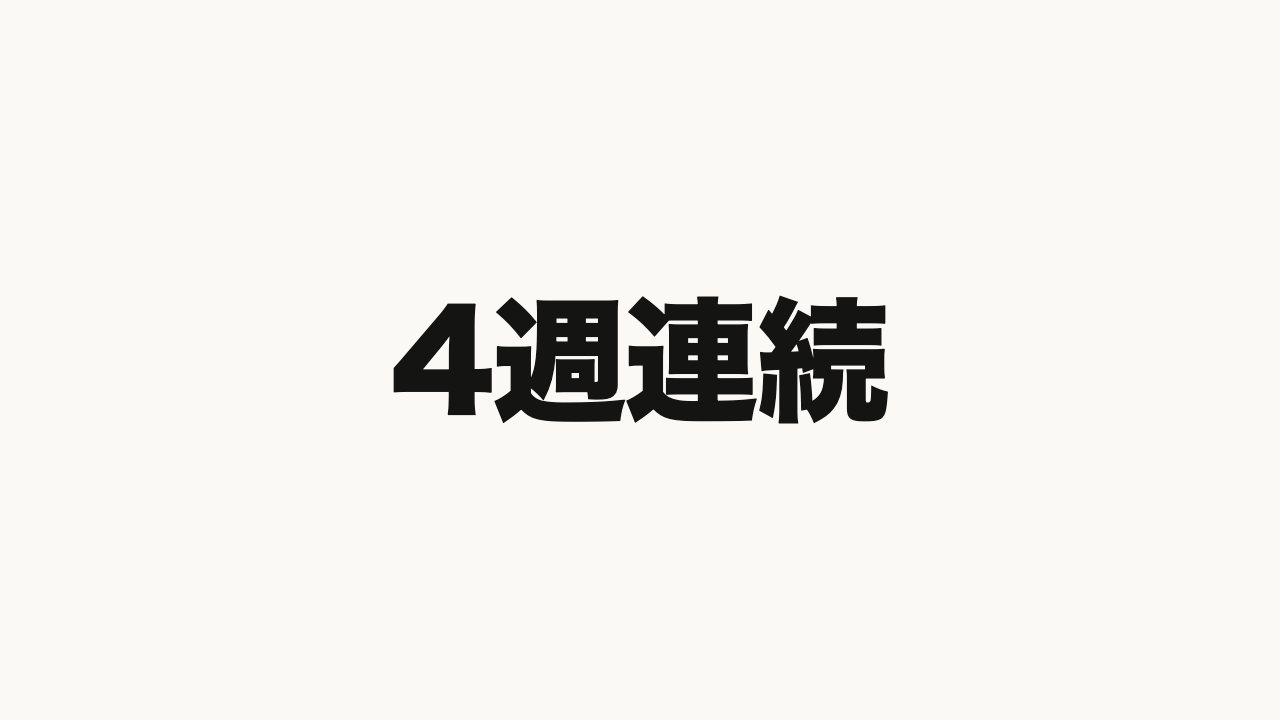
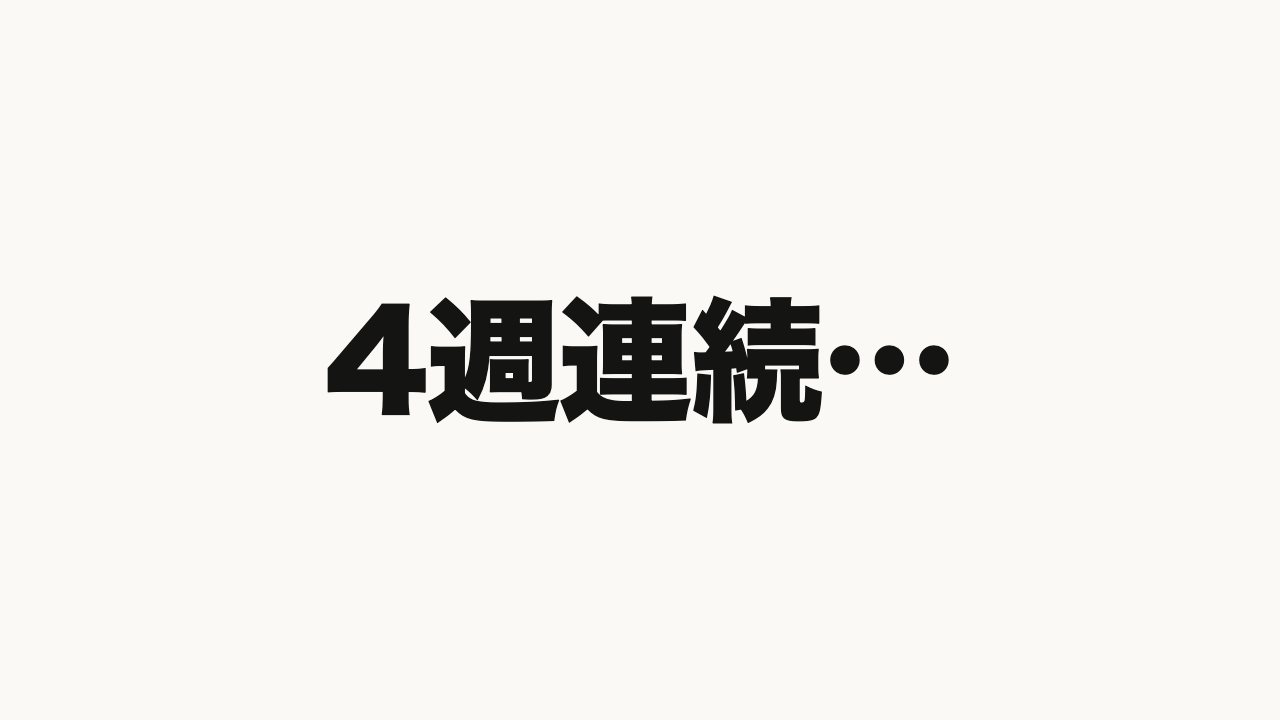
参加者向けスライドを編集内容に合わせて更新する

Changed region(s): [[0.25, 0.3972, 0.75, 0.6111]]

diff --git a/claude-meetup/index.html b/claude-meetup/index.html
@@ -31,7 +31,7 @@
 <div id="toast" role="status" hidden></div>
 <script>
 (function () {
-  const ALL = [{"id": "title", "alt": "LTしたい Codex使いは Claude Codeの世界に 足を踏み入れる"}, {"id": "photoOk", "alt": "撮影・SNS投稿 大歓迎"}, {"id": "sameIdea", "alt": "鮫さんの 登壇スタイルを 真似します"}, {"id": "audienceQr", "alt": "登壇資料を 手元のスマホでも 見られます！ X投稿も可能！"}, {"id": "profile", "alt": "あぶち"}, {"id": "fourWeeks", "alt": "4週連続"}, {"id": "week1", "alt": "1週目： XRコンテンツを作ってみる会"}, {"id": "week1b", "alt": "1週目： XRコンテンツを作ってみる会"}, {"id": "pagemvv8d4pn", "alt": "2週目： さくらじまハウス2026 運営/登壇"}, {"id": "week2b", "alt": "3週目： CUG BIM/CIM勉強会 登壇"}, {"id": "week2", "alt": "3週目： CUG BIM/CIM勉強会 登壇CUG BIM/CIM勉強会 登壇"}, {"id": "week3b", "alt": "3週目： CUG BIM/CIM勉強会 登壇TSUKAFES ブース出展"}, {"id": "week3", "alt": "3週目： CUG BIM/CIM勉強会 登壇TSUKAFES ブース出展"}, {"id": "week4", "alt": "4週目： Kagoshima | Claude Meetup"}, {"id": "finally", "alt": "やっと 終わった"}, {"id": "karakuni", "alt": "明日は霧島登山"}, {"id": "tokyo", "alt": "明後日は東京 Unreal Fest"}, {"id": "busy", "alt": "忙しすぎィ！"}, {"id": "stillLt", "alt": "それでも LTに出たい"}, {"id": "pagemvv6107c", "alt": "なぜなのか！？"}, {"id": "komyusho", "alt": "コミュ障だから！"}, {"id": "mingleHard", "alt": "交流タイムが つらい"}, {"id": "ltMeishi", "alt": "LTは 名刺代わり"}, {"id": "getTalked", "alt": "話しかけて もらえる"}, {"id": "komyushoLt", "alt": "コミュ障ほど LTしよう！！"}, {"id": "soThen", "alt": "というわけで"}, {"id": "meishiIppatsu", "alt": "名刺代わりのLTを ここで一発"}, {"id": "codexAll", "alt": "仕事も 趣味も Codex"}, {"id": "pagemvv93edm", "alt": "そんな私が"}, {"id": "claudeStart", "alt": "Claude Codeを 触ってみた"}, {"id": "atarimaeEarly", "alt": "「当たり前じゃん」と 思った人"}, {"id": "howMade", "alt": "この資料は"}, {"id": "voiceMemo", "alt": "日々の思いつきを Codexにメモ"}, {"id": "handoff", "alt": "Codexが 引き継ぎ書に"}, {"id": "claudeSlides", "alt": "Claudeが スライドに"}, {"id": "spell", "alt": "SpellCastXR"}, {"id": "spellBoard", "alt": "タスクを ボードに"}, {"id": "spellPick", "alt": "1つずつ 拾わせる"}, {"id": "spellSmall", "alt": "人間サイズの タスク"}, {"id": "spellCheck", "alt": "動作確認が 多すぎる"}, {"id": "spell2mo", "alt": "AIを使って 2ヶ月"}, {"id": "tsukafes", "alt": "TSUKAFESで 展示"}, {"id": "day1", "alt": "1日目"}, {"id": "flop", "alt": "思ったより 盛り上がらない"}, {"id": "day2", "alt": "2日目は"}, {"id": "tatsuAgain", "alt": "タツノオトシゴXR"}, {"id": "tatsuKv", "alt": ""}, {"id": "tatsu", "alt": "2024年 辰年"}, {"id": "tatsu24h", "alt": "大晦日から元旦 24時間展示"}, {"id": "tatsuHand", "alt": "手作業で 1ヶ月"}, {"id": "hot", "alt": "盛り上がった"}, {"id": "grow", "alt": "もっと 育てたい"}, {"id": "nextDay", "alt": "展示が 終わった翌日"}, {"id": "standalone", "alt": "スタンドアロンに したい"}, {"id": "ueWater", "alt": "UEだと 水が描けない"}, {"id": "toUnity", "alt": "Codexと相談して Unityへ"}, {"id": "goal", "alt": "ゴールだけ 伝える"}, {"id": "hours13", "alt": "約13時間"}, {"id": "check5", "alt": "動作確認は 5回くらい"}, {"id": "easy", "alt": "あっさり できた"}, {"id": "ai100", "alt": "コードは 100% AI製"}, {"id": "handcodeOver", "alt": "手でコードを書く 時代は 終わった"}, {"id": "noHumanSteps", "alt": "人の手順を なぞらなくていい"}, {"id": "noWall", "alt": "作ることは もう壁じゃない"}, {"id": "humanRole", "alt": "じゃあ 人は何をする？"}, {"id": "ideaFirst", "alt": "最初のアイデアが 肝心"}, {"id": "notCan", "alt": "何ができるか より"}, {"id": "whatMake", "alt": "何を 作りたいか"}, {"id": "creator", "alt": "どんな作品を 作るか"}, {"id": "artist", "alt": "全人類 アーティスト？"}, {"id": "tokyoShop", "alt": "東京なら 家電量販店で 体験できる"}, {"id": "kagoNone", "alt": "鹿児島には 体験できる場が ない"}, {"id": "fewMeet", "alt": "出会う きっかけが 少ない"}, {"id": "fewLearn", "alt": "学ぶ機会も 少ない"}, {"id": "soCommunity", "alt": "だから コミュニティ"}, {"id": "event", "alt": "体験会"}, {"id": "exhibit", "alt": "展示"}, {"id": "knowXr", "alt": "XRを 知ってもらう"}, {"id": "study", "alt": "勉強会で 学ぶ"}, {"id": "make", "alt": "作る"}, {"id": "show", "alt": "作ったものを 展示する"}, {"id": "newPeople", "alt": "また誰かが 体験する"}, {"id": "loop", "alt": "体験と学びの ループ"}, {"id": "loopKago", "alt": "このループを 鹿児島に"}, {"id": "xrm", "alt": "XR Meetup Kagoshima"}, {"id": "okQ", "alt": "Claude初心者でも 登壇して 大丈夫？"}, {"id": "ok", "alt": "触り始めでも 話していい"}, {"id": "atarimae", "alt": "「当たり前じゃん」と 思った人"}, {"id": "canTalk", "alt": "もう 登壇できます"}, {"id": "yourTurn", "alt": "次は あなたの番"}, {"id": "thanks", "alt": "ありがとう ございました"}];
+  const ALL = [{"id": "title", "alt": "LTしたい Codex使いは Claude Codeの世界に 足を踏み入れる"}, {"id": "photoOk", "alt": "撮影・SNS投稿 大歓迎"}, {"id": "sameIdea", "alt": "鮫さんの 登壇スタイルを 真似します"}, {"id": "audienceQr", "alt": "登壇資料を 手元のスマホでも 見られます！ X投稿も可能！"}, {"id": "profile", "alt": "あぶち"}, {"id": "fourWeeks", "alt": "4週連続…"}, {"id": "week1", "alt": "1週目： XRコンテンツを作ってみる会"}, {"id": "week1b", "alt": "1週目： XRコンテンツを作ってみる会"}, {"id": "pagemvv8d4pn", "alt": "2週目： さくらじまハウス2026 運営/登壇"}, {"id": "week2b", "alt": "3週目： CUG BIM/CIM勉強会 登壇"}, {"id": "week2", "alt": "3週目： CUG BIM/CIM勉強会 登壇CUG BIM/CIM勉強会 登壇"}, {"id": "week3b", "alt": "3週目： CUG BIM/CIM勉強会 登壇TSUKAFES ブース出展"}, {"id": "week3", "alt": "3週目： CUG BIM/CIM勉強会 登壇TSUKAFES ブース出展"}, {"id": "week4", "alt": "4週目： Kagoshima | Claude Meetup"}, {"id": "finally", "alt": "やっと 終わった"}, {"id": "karakuni", "alt": "明日は霧島登山"}, {"id": "tokyo", "alt": "明後日は東京 Unreal Fest"}, {"id": "busy", "alt": "忙しすぎィ！"}, {"id": "stillLt", "alt": "それでも LTに出たい"}, {"id": "pagemvv6107c", "alt": "なぜなのか！？"}, {"id": "komyusho", "alt": "コミュ障だから！"}, {"id": "mingleHard", "alt": "交流タイムが つらい"}, {"id": "ltMeishi", "alt": "LTは 名刺代わり"}, {"id": "getTalked", "alt": "話しかけて もらえる"}, {"id": "komyushoLt", "alt": "コミュ障ほど LTしよう！！"}, {"id": "soThen", "alt": "というわけで"}, {"id": "meishiIppatsu", "alt": "名刺代わりのLTを ここで一発"}, {"id": "codexAll", "alt": "仕事も 趣味も Codex"}, {"id": "pagemvv93edm", "alt": "そんな私が"}, {"id": "claudeStart", "alt": "Claude Codeを 触ってみた"}, {"id": "atarimaeEarly", "alt": "「当たり前じゃん」と 思った人"}, {"id": "howMade", "alt": "この資料は"}, {"id": "voiceMemo", "alt": "日々の思いつきを Codexにメモ"}, {"id": "handoff", "alt": "Codexが 引き継ぎ書に"}, {"id": "claudeSlides", "alt": "Claudeが スライドに"}, {"id": "spell", "alt": "SpellCastXR"}, {"id": "spellBoard", "alt": "タスクを ボードに"}, {"id": "spellPick", "alt": "1つずつ 拾わせる"}, {"id": "spellSmall", "alt": "人間サイズの タスク"}, {"id": "spellCheck", "alt": "動作確認が 多すぎる"}, {"id": "spell2mo", "alt": "AIを使って 2ヶ月"}, {"id": "tsukafes", "alt": "TSUKAFESで 展示"}, {"id": "day1", "alt": "1日目"}, {"id": "flop", "alt": "思ったより 盛り上がらない"}, {"id": "day2", "alt": "2日目は"}, {"id": "tatsuAgain", "alt": "タツノオトシゴXR"}, {"id": "tatsuKv", "alt": ""}, {"id": "tatsu", "alt": "2024年 辰年"}, {"id": "tatsu24h", "alt": "大晦日から元旦 24時間展示"}, {"id": "tatsuHand", "alt": "手作業で 1ヶ月"}, {"id": "hot", "alt": "盛り上がった"}, {"id": "grow", "alt": "もっと 育てたい"}, {"id": "nextDay", "alt": "展示が 終わった翌日"}, {"id": "standalone", "alt": "スタンドアロンに したい"}, {"id": "ueWater", "alt": "UEだと 水が描けない"}, {"id": "toUnity", "alt": "Codexと相談して Unityへ"}, {"id": "goal", "alt": "ゴールだけ 伝える"}, {"id": "hours13", "alt": "約13時間"}, {"id": "check5", "alt": "動作確認は 5回くらい"}, {"id": "easy", "alt": "あっさり できた"}, {"id": "ai100", "alt": "コードは 100% AI製"}, {"id": "handcodeOver", "alt": "手でコードを書く 時代は 終わった"}, {"id": "noHumanSteps", "alt": "人の手順を なぞらなくていい"}, {"id": "noWall", "alt": "作ることは もう壁じゃない"}, {"id": "humanRole", "alt": "じゃあ 人は何をする？"}, {"id": "ideaFirst", "alt": "最初のアイデアが 肝心"}, {"id": "notCan", "alt": "何ができるか より"}, {"id": "whatMake", "alt": "何を 作りたいか"}, {"id": "creator", "alt": "どんな作品を 作るか"}, {"id": "artist", "alt": "全人類 アーティスト？"}, {"id": "tokyoShop", "alt": "東京なら 家電量販店で 体験できる"}, {"id": "kagoNone", "alt": "鹿児島には 体験できる場が ない"}, {"id": "fewMeet", "alt": "出会う きっかけが 少ない"}, {"id": "fewLearn", "alt": "学ぶ機会も 少ない"}, {"id": "soCommunity", "alt": "だから コミュニティ"}, {"id": "event", "alt": "体験会"}, {"id": "exhibit", "alt": "展示"}, {"id": "knowXr", "alt": "XRを 知ってもらう"}, {"id": "study", "alt": "勉強会で 学ぶ"}, {"id": "make", "alt": "作る"}, {"id": "show", "alt": "作ったものを 展示する"}, {"id": "newPeople", "alt": "また誰かが 体験する"}, {"id": "loop", "alt": "体験と学びの ループ"}, {"id": "loopKago", "alt": "このループを 鹿児島に"}, {"id": "xrm", "alt": "XR Meetup Kagoshima"}, {"id": "okQ", "alt": "Claude初心者でも 登壇して 大丈夫？"}, {"id": "ok", "alt": "触り始めでも 話していい"}, {"id": "atarimae", "alt": "「当たり前じゃん」と 思った人"}, {"id": "canTalk", "alt": "もう 登壇できます"}, {"id": "yourTurn", "alt": "次は あなたの番"}, {"id": "thanks", "alt": "ありがとう ございました"}];
   const TOPIC = "abchee-lt-4d766b75dfda80be", BASE = "https://abricheese.github.io/talks/claude-meetup/", TITLE = "LTしたいCodex使いはClaude Codeの世界に足を踏み入れる", HASHTAG = "#ClaudeCommunityKagoshima";
   const slides = ALL.filter(s => !s.hidden);
   const $ = id => document.getElementById(id);

diff --git a/claude-meetup/s/fourWeeks.html b/claude-meetup/s/fourWeeks.html
@@ -1,7 +1,7 @@
 <!doctype html><html lang="ja"><head><meta charset="utf-8">
 <title>LTしたいCodex使いはClaude Codeの世界に足を踏み入れる</title>
 <meta property="og:title" content="LTしたいCodex使いはClaude Codeの世界に足を踏み入れる">
-<meta property="og:description" content="4週連続">
+<meta property="og:description" content="4週連続…">
 <meta property="og:image" content="https://abricheese.github.io/talks/claude-meetup/slides/fourWeeks.jpg">
 <meta property="og:url" content="https://abricheese.github.io/talks/claude-meetup/s/fourWeeks.html">
 <meta property="og:type" content="website">
